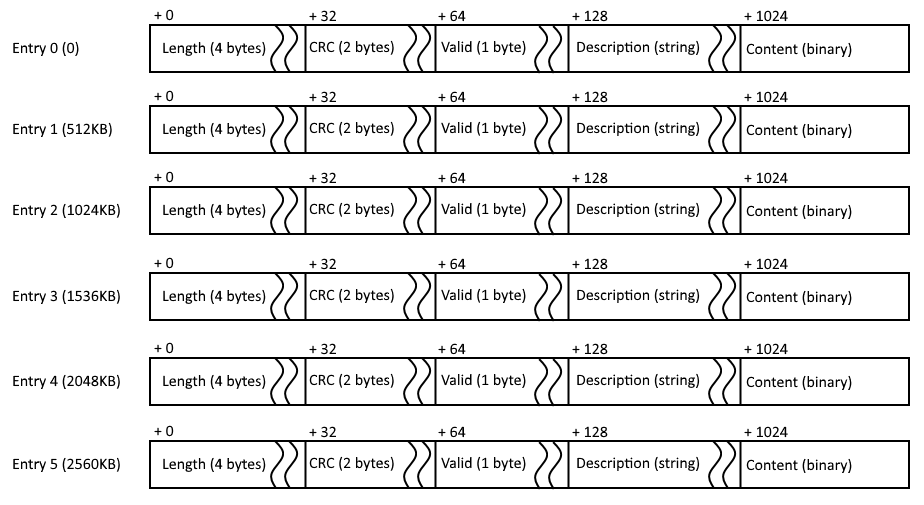
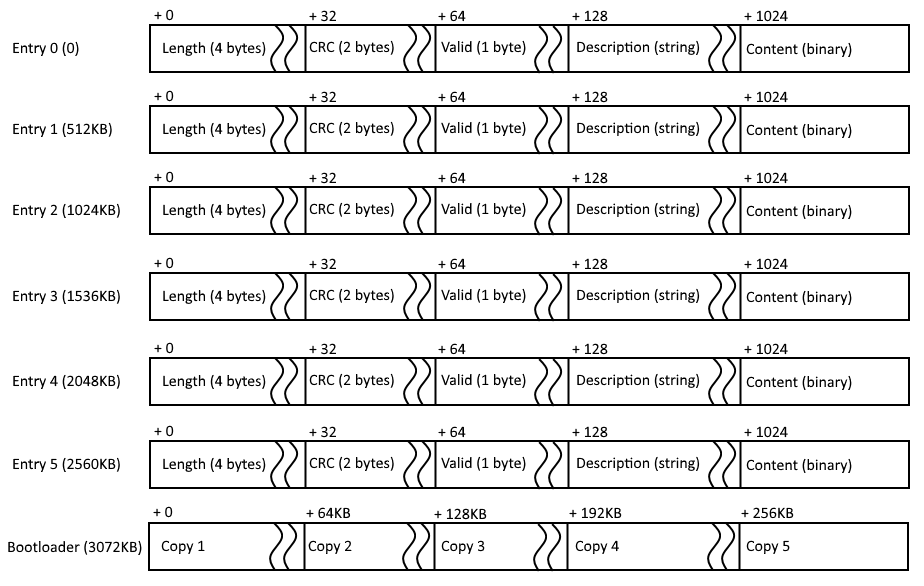
Update boot table layout with bootloader copies

diff --git a/doc/boot_table.md b/doc/boot_table.md
@@ -8,5 +8,7 @@ Boot table is placed on external program flash on OBC board (S29JL 4MB NOR flash
  4. Description (Variable length up to 896 bytes, null-terminated string)
  5. Program content (Of size stored in *Size* field - up to 511KB)
  
+After all entries 5 copies of bootloader are stored (64KB each).
+ 
 Flash layout is presented on image below:
 ![Program flash layout](boot_table.png)
